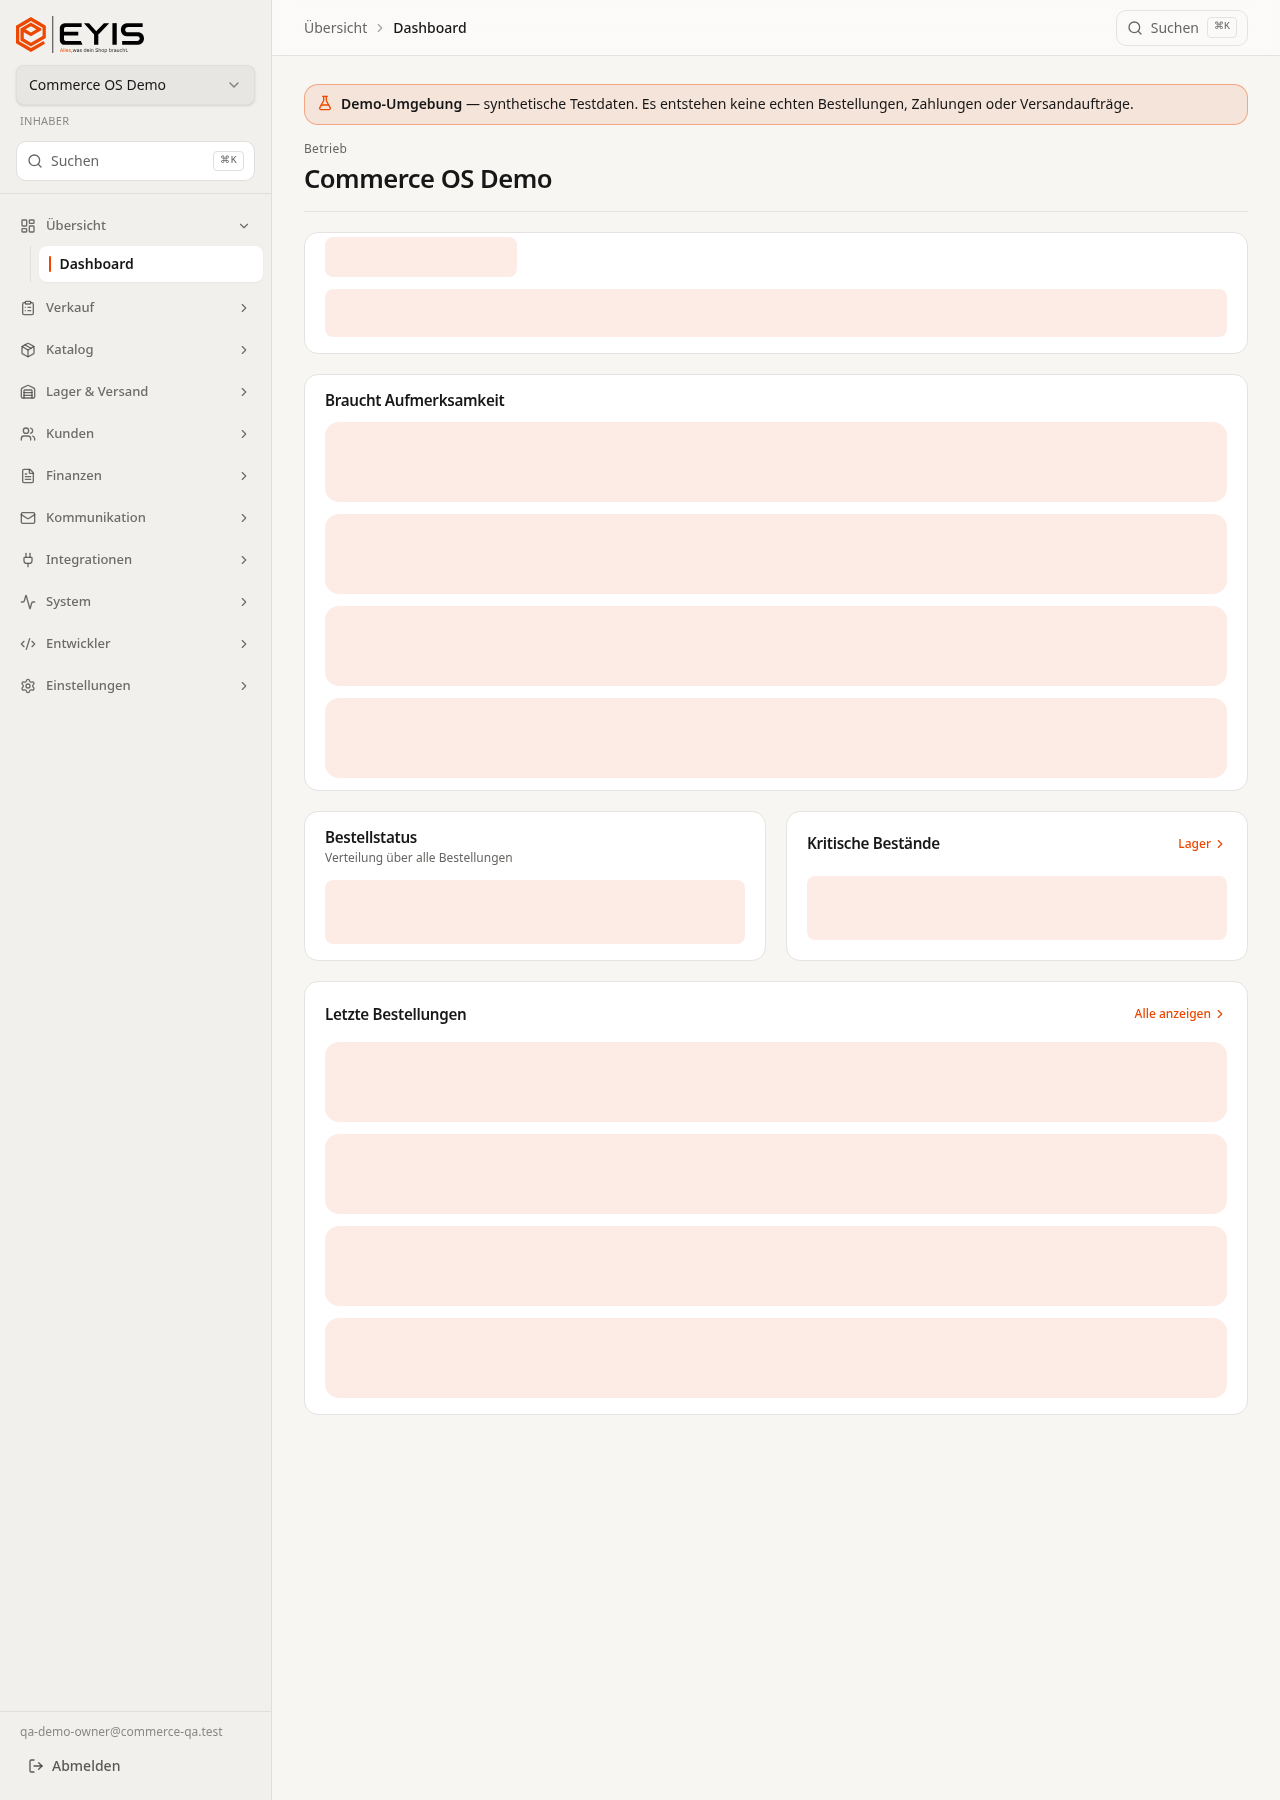
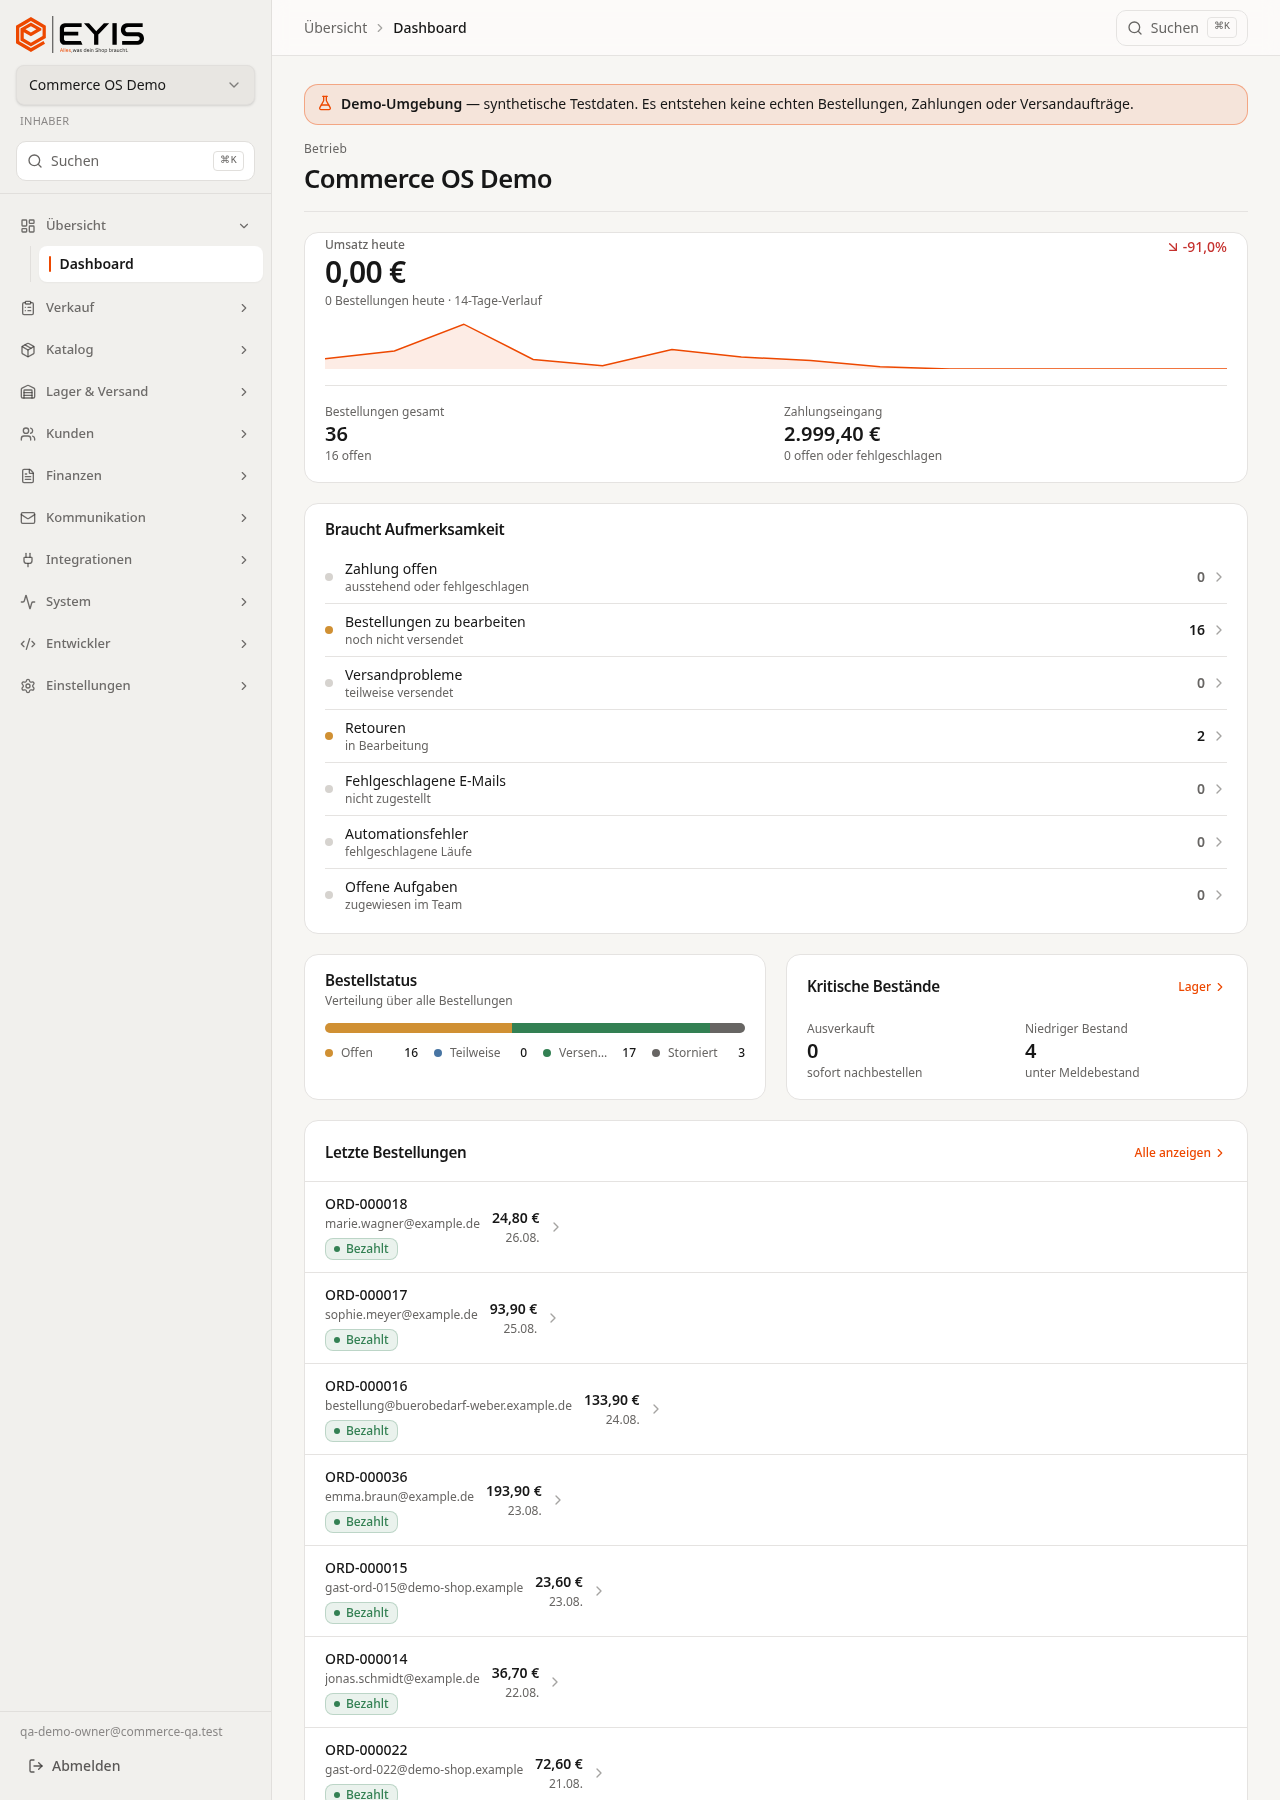
Changes

Changed region(s): [[0.25, 0.1244, 0.9688, 1.0], [0.4375, 0.8711, 0.4688, 0.9022]]

diff --git a/qa/phase25-ui-isolation.py b/qa/phase25-ui-isolation.py
@@ -25,7 +25,11 @@ async def main():
         # 3. Kunden-Chrome darf im Backoffice nicht erscheinen
         await pg.evaluate("([k,v])=>localStorage.setItem(k,v)",[key,payload])
         await pg.goto(BASE+"/app", wait_until="domcontentloaded")
-        await pg.wait_for_timeout(4000)
+        try:
+            await pg.wait_for_selector(".eyis-admin", timeout=30000)
+        except Exception:
+            pass
+        await pg.wait_for_timeout(1000)
         rec("Backoffice rendert im .eyis-admin-Scope", await pg.locator(".eyis-admin").count()>0)
         rec("Backoffice trägt data-eyis-runtime", await pg.locator("[data-eyis-runtime='backoffice']").count()>0)
         # 4. Fixture: Kunde überschreibt :root-Tokens — Backoffice bleibt unbeeinflusst
